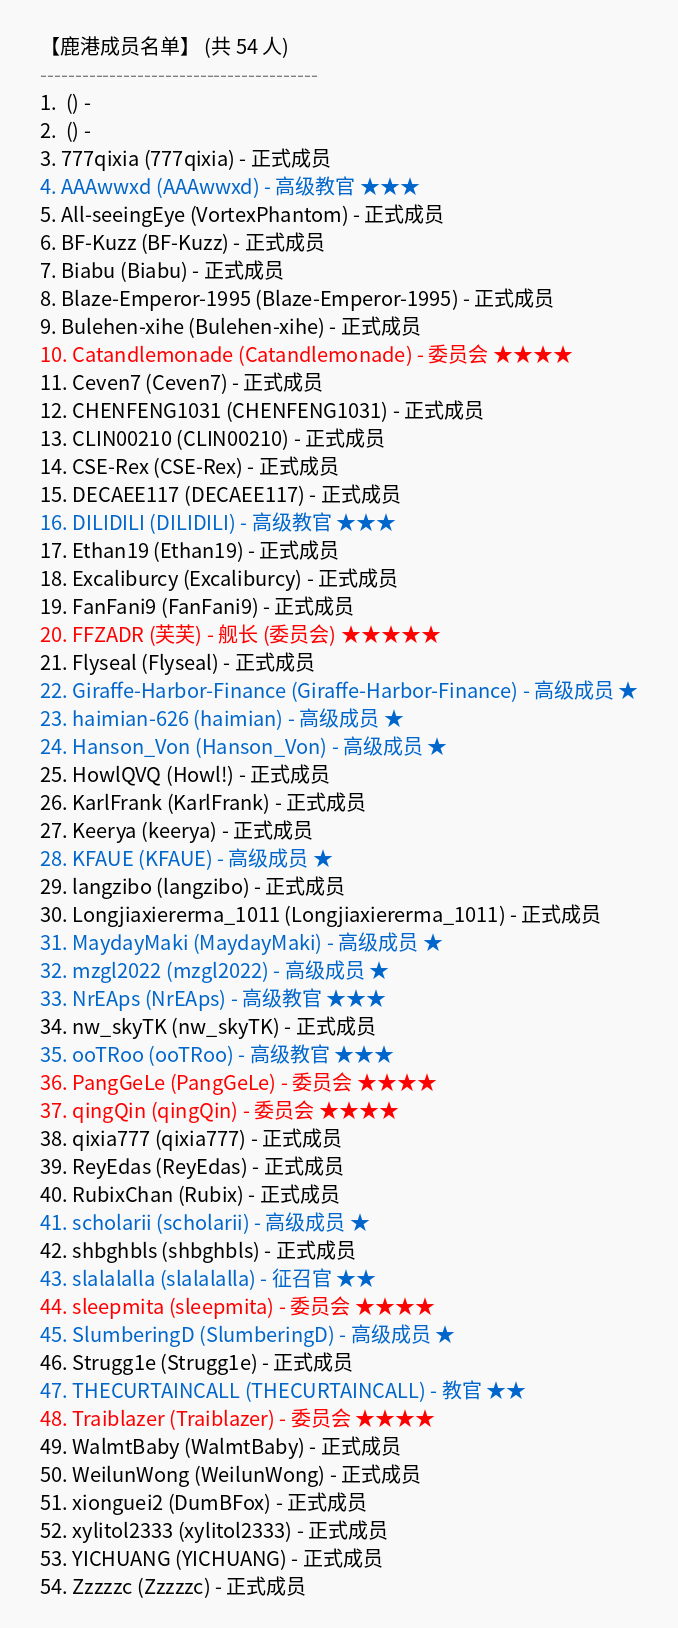
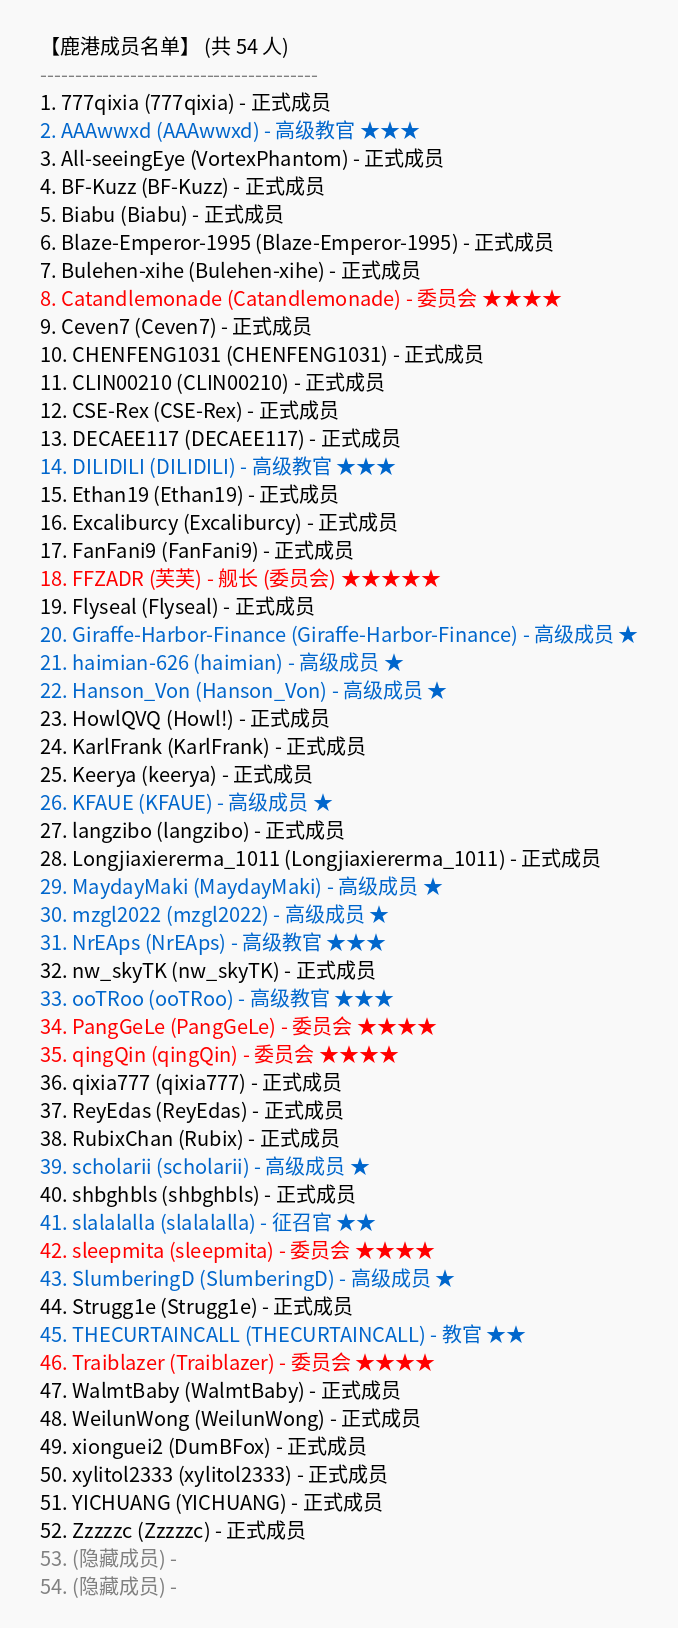
fix: 新增鹿港成员列表查询

diff --git a/rsi_scraper.py b/rsi_scraper.py
@@ -58,8 +58,8 @@ async def fetch_org_members(symbol: str = "GFHB"):
                         # Let's extract the title or info section
                         info_div = item.find("div", class_="info")
                         
-                        moniker = name_span.text.strip() if name_span else "Unknown"
-                        handle = nick_span.text.strip() if nick_span else "Unknown"
+                        moniker = name_span.text.strip() if name_span else ""
+                        handle = nick_span.text.strip() if nick_span else ""
                         
                         # Extract Rank (usually the rank level like 正式成员, 舰长, etc.)
                         rank_span = item.find("span", class_="rank")
@@ -89,8 +89,8 @@ async def fetch_org_members(symbol: str = "GFHB"):
                         # Check for hidden members
                         # Usually hidden members don't have a nick/handle, or they have specific classes
                         is_hidden = False
-                        # If both moniker and handle are 'Unknown', it's definitely a hidden member
-                        if moniker == "Unknown" and handle == "Unknown":
+                        # If both moniker and handle are 'Unknown' or empty, it's definitely a hidden member
+                        if (not moniker or moniker == "Unknown") and (not handle or handle == "Unknown"):
                             is_hidden = True
                         elif not nick_span and not name_span:
                             is_hidden = True
@@ -157,14 +157,14 @@ async def fetch_org_members(symbol: str = "GFHB"):
                 logger.error(f"[RSI Scraper] Error on page {page}: {e}")
                 break
                 
-    # Sort members by hidden status first (hidden at the bottom), then strictly by handle alphabetically.
-    # Note: is_hidden is boolean (False = 0, True = 1), so sorting by it puts True (1) after False (0).
-    # However, if handle is empty string "", it might sort before other strings. Let's make sure hidden members have a fallback string for sorting.
-    for m in members:
-        if m["is_hidden"]:
-            m["sort_key"] = "zzzzzz" # ensure it goes to the end alphabetically
-        else:
-            m["sort_key"] = m["handle"].lower()
-            
-    members.sort(key=lambda x: (x["is_hidden"], x["sort_key"]))
-    return members
+    # Separate hidden and visible members to ensure perfect sorting
+    visible_members = [m for m in members if not m["is_hidden"]]
+    hidden_members = [m for m in members if m["is_hidden"]]
+    
+    # Sort visible members strictly by handle alphabetically
+    visible_members.sort(key=lambda x: x["handle"].lower())
+    
+    # Hidden members have no handle, just append them at the very end
+    final_members = visible_members + hidden_members
+    
+    return final_members

diff --git a/text_to_img.py b/text_to_img.py
@@ -204,7 +204,7 @@ def members_to_image(members: list, save_dir: Path) -> str:
         stars_str = "★" * stars if stars > 0 else ""
         
         if is_hidden:
-            line_text = f"{idx}. 隐藏成员"
+            line_text = f"{idx}. (隐藏成员) - "
             color = "gray"
         else:
             rank_display = f"{rank} {stars_str}".strip()
